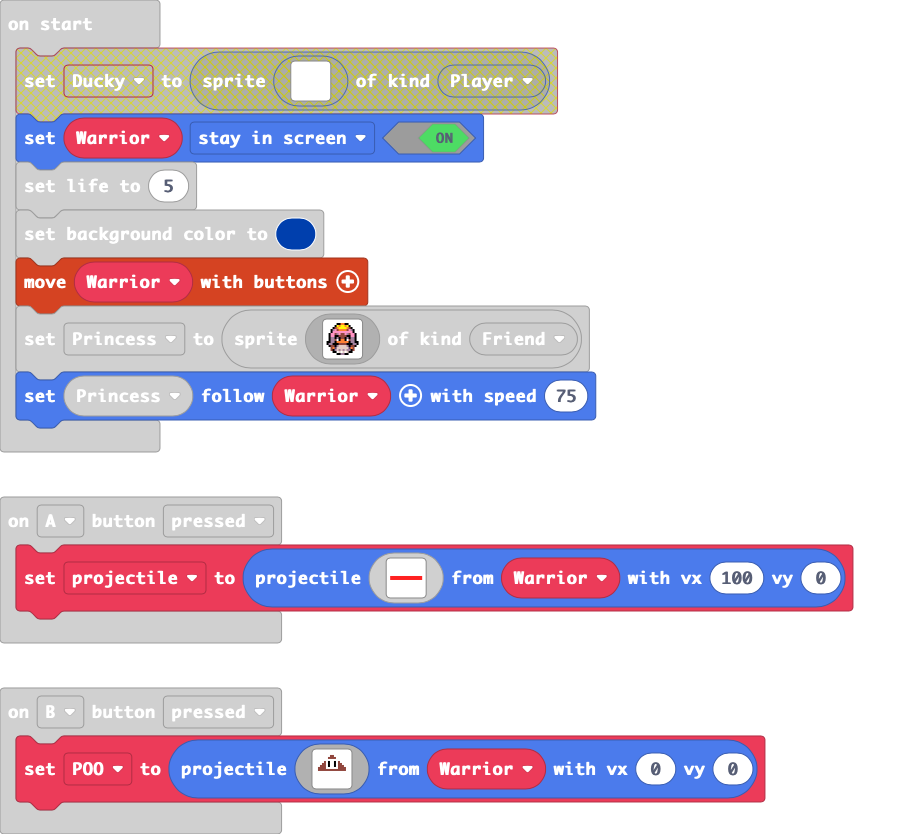
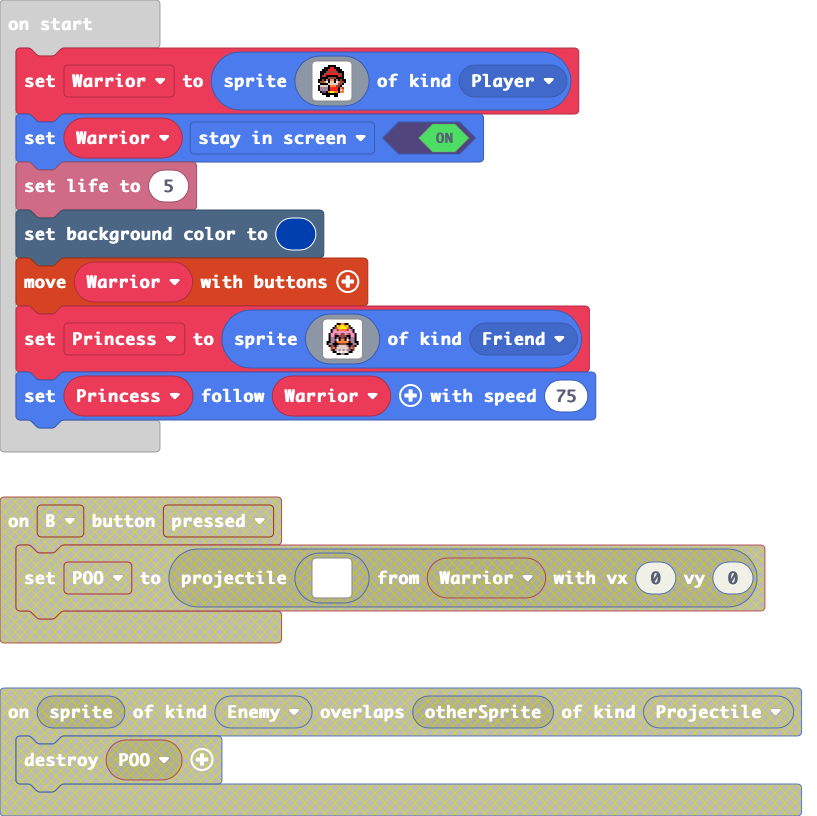
Poo has gone:( Update 2.01

diff --git a/main.ts b/main.ts
@@ -2,26 +2,6 @@ namespace SpriteKind {
     export const stronger_enemy = SpriteKind.create()
     export const Friend = SpriteKind.create()
 }
-controller.B.onEvent(ControllerButtonEvent.Pressed, function () {
-    POO = sprites.createProjectileFromSprite(img`
-        . . . . . . . . . . . . . . . . 
-        . . . . . . . e e . . . . . . . 
-        . . . . . . e e e e . . . . . . 
-        . . . . . 1 1 1 1 1 1 . . . . . 
-        . . . . e 1 f 1 1 f 1 e . . . . 
-        . . . e e 1 f 1 1 f 1 e e . . . 
-        . . e e e 1 f 1 1 f 1 e e e . . 
-        . e e e e 1 1 1 1 1 1 e e e e . 
-        . e e e e e e e e e e e e e e . 
-        . . . . . . . . . . . . . . . . 
-        . . . . . . . . . . . . . . . . 
-        . . . . . . . . . . . . . . . . 
-        . . . . . . . . . . . . . . . . 
-        . . . . . . . . . . . . . . . . 
-        . . . . . . . . . . . . . . . . 
-        . . . . . . . . . . . . . . . . 
-        `, Warrior, 0, 0)
-})
 sprites.onOverlap(SpriteKind.Player, SpriteKind.stronger_enemy, function (sprite, otherSprite) {
     otherSprite.destroy()
     info.changeLifeBy(-2)
@@ -46,9 +26,6 @@ controller.A.onEvent(ControllerButtonEvent.Pressed, function () {
         . . . . . . . . . . . . . . . . 
         `, Warrior, 100, 0)
 })
-sprites.onOverlap(SpriteKind.Enemy, SpriteKind.Projectile, function (sprite, otherSprite) {
-    POO.destroy()
-})
 sprites.onOverlap(SpriteKind.Projectile, SpriteKind.stronger_enemy, function (sprite, otherSprite) {
     otherSprite.destroy()
     info.changeScoreBy(20)
@@ -64,8 +41,25 @@ sprites.onOverlap(SpriteKind.Player, SpriteKind.Enemy, function (sprite, otherSp
 let Sharky: Sprite = null
 let Batty: Sprite = null
 let projectile: Sprite = null
-let POO: Sprite = null
 let Warrior: Sprite = null
+Warrior = sprites.create(img`
+    . . . . . . f f f f . . . . . . 
+    . . . . f f f 2 2 f f f . . . . 
+    . . . f f f 2 2 2 2 f f f . . . 
+    . . f f f e e e e e e f f f . . 
+    . . f f e 2 2 2 2 2 2 e e f . . 
+    . . f e 2 f f f f f f 2 e f . . 
+    . . f f f f e e e e f f f f . . 
+    . f f e f b f 4 4 f b f e f f . 
+    . f e e 4 1 f d d f 1 4 e e f . 
+    . . f f f f d d d d d e e f . . 
+    . f d d d d f 4 4 4 e e f . . . 
+    . f b b b b f 2 2 2 2 f 4 e . . 
+    . f b b b b f 2 2 2 2 f d 4 . . 
+    . . f c c f 4 5 5 4 4 f 4 4 . . 
+    . . . f f f f f f f f . . . . . 
+    . . . . . f f . . f f . . . . . 
+    `, SpriteKind.Player)
 Warrior.setFlag(SpriteFlag.StayInScreen, true)
 info.setLife(5)
 scene.setBackgroundColor(8)
